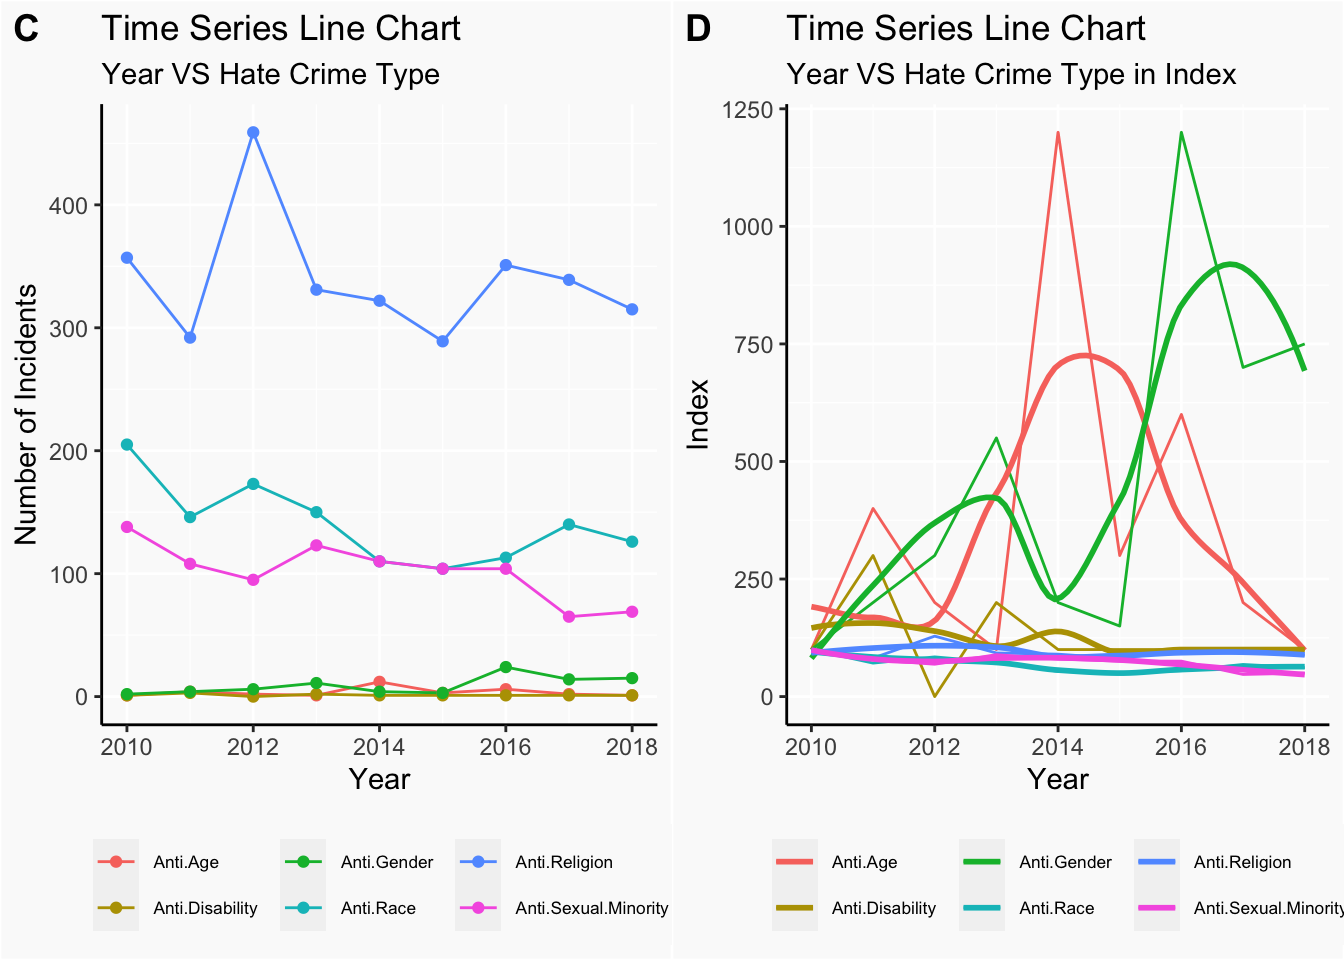
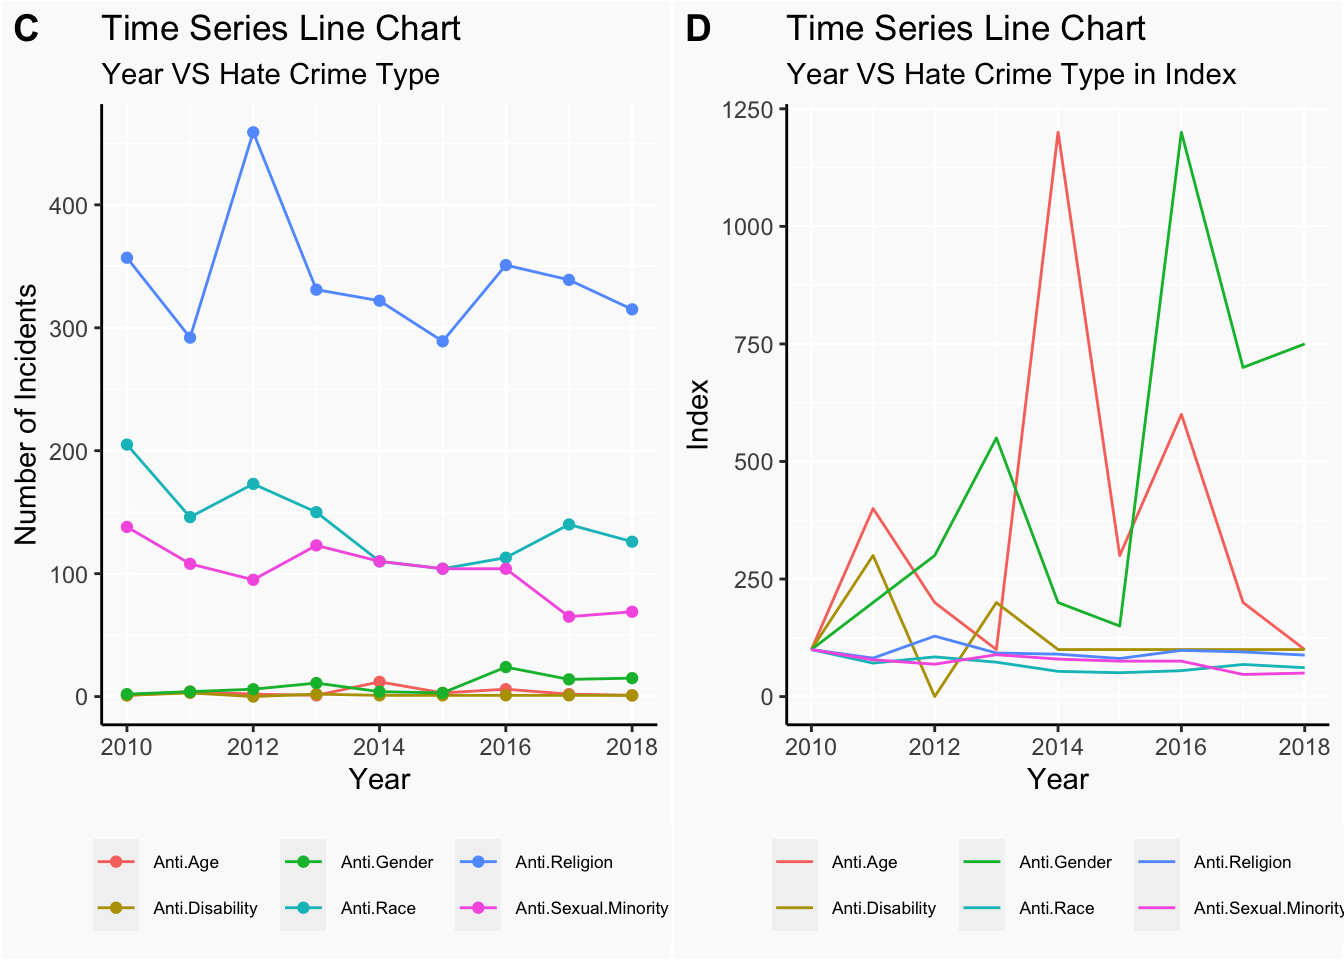
change one line chart in Q3

diff --git a/docs/results.html b/docs/results.html
@@ -24,7 +24,7 @@
 <meta name="author" content="Haichao Yi, Heng Kan, Danyang Han, Zhuoyan Ma" />
 
 
-<meta name="date" content="2020-12-17" />
+<meta name="date" content="2020-12-18" />
 
   <meta name="viewport" content="width=device-width, initial-scale=1" />
   <meta name="apple-mobile-web-app-capable" content="yes" />
@@ -219,7 +219,7 @@ code span.wa { color: #60a0b0; font-weight: bold; font-style: italic; } /* Warni
 <p><img src="finalproj_files/figure-html/unnamed-chunk-20-1.png" width="672" /></p>
 <p>Next, let’s move on to exmaine on the time trend of hate crime types in NY state. Similar preprocessing procedure was done with the target data like the way we transformed in the crime type case.</p>
 <p>From the C plot, we can say that Anti.Religion is the most common hate crime type from 2010 to 2018. It reaches its maximum in 2012 and for other years, it remains approximately at the same level. Anti.Race is the second common type of hate crime in these years and it indicates an overall decreasing trend. Then, it’s the Anti.Sexual.Minority, which also demonstrates a general lowering tendency across years. In 2015 and 2016, its number comes to same level as the number of Anti.Race. For the rest of three type of hate crimes: Anti.Gender, Anti.Disability and Anti.Age, they stay at similar level from 2010 and 2018, roughly around 0 to 10. Anti.Gender reaches its highest point in 2016.</p>
-<p>Interestingly, D plot provides much more information about the time trend. Due to the small cases of certain type of hate crimes, some changes across years are hard to view in the C plot, while D plot ‘exaggerates’ those changes by using the relative change compared with numbers in 2010, especially the Anti.Age and Anti.Gender. From C plot, it’s difficult to view any fluctuations in Anti.Age and Anti.Gender across years. But, in D plot, we are able to view the obvious fluctuations in those two types. Specifically, for Anti.Age, it increases first, then goes down, then goes up to significanly high level, reaching its maximum in 2014, later drops a little and increases to the second highest point in 2016. And for Anti.Gender, it goes up for three years, decreases in next two years and then shows a significantly sharp increase from 2015 to 2016.</p>
+<p>Interestingly, D plot provides much more information about the time trend.In this plot, we didn’t add on the smoothing line using local regression as we didn’t want too much lines in one plot, which makes the plot hard to read. Here we chose to keep the regular line because it shows the relative change in a more obvious way than the smooth line. Due to the small cases of certain type of hate crimes, some changes across years are difficult to view in the C plot, while D plot ‘exaggerates’ those changes by using the relative change compared with numbers in 2010, especially the Anti.Age and Anti.Gender. From C plot, it’s difficult to view any fluctuations in Anti.Age and Anti.Gender across years. But, in D plot, we are able to view the obvious fluctuations in those two types. Specifically, for Anti.Age, it increases first, then goes down, then goes up to significanly high level, reaching its maximum in 2014, later drops a little and increases to the second highest point in 2016. And for Anti.Gender, it goes up for three years, decreases in next two years and then shows a significantly sharp increase from 2015 to 2016.</p>
 <p>Seeing the sharp increase in Anti.Age and Anti.Gender at a particular year, we are curious about which subtype of these two types causes such increase. As Anti.Age doesn’t have any subgroups, we focus on the subgroups of Anti.Gender.</p>
 <p><img src="finalproj_files/figure-html/unnamed-chunk-21-1.png" width="672" /></p>
 <p>In order to see, we draw the time series line chart of years for subgroups of Anti.Gender. From the plot, we discover that the sharp increase in 2016 is largely caused by the sharp increase in Anti.Gender.Indentity.Expression in 2016.</p>

diff --git a/docs/index.html b/docs/index.html
@@ -24,7 +24,7 @@
 <meta name="author" content="Haichao Yi, Heng Kan, Danyang Han, Zhuoyan Ma" />
 
 
-<meta name="date" content="2020-12-17" />
+<meta name="date" content="2020-12-18" />
 
   <meta name="viewport" content="width=device-width, initial-scale=1" />
   <meta name="apple-mobile-web-app-capable" content="yes" />
@@ -169,7 +169,7 @@ code span.wa { color: #60a0b0; font-weight: bold; font-style: italic; } /* Warni
 <div id="header">
 <h1 class="title">Hate Crimes in the State of New York</h1>
 <p class="author"><em>Haichao Yi, Heng Kan, Danyang Han, Zhuoyan Ma</em></p>
-<p class="date"><em>2020-12-17</em></p>
+<p class="date"><em>2020-12-18</em></p>
 </div>
 <div id="introduction" class="section level1">
 <h1><span class="header-section-number">Chapter 1</span> Introduction</h1>

diff --git a/docs/conclusion.html b/docs/conclusion.html
@@ -24,7 +24,7 @@
 <meta name="author" content="Haichao Yi, Heng Kan, Danyang Han, Zhuoyan Ma" />
 
 
-<meta name="date" content="2020-12-17" />
+<meta name="date" content="2020-12-18" />
 
   <meta name="viewport" content="width=device-width, initial-scale=1" />
   <meta name="apple-mobile-web-app-capable" content="yes" />

diff --git a/docs/data-sources.html b/docs/data-sources.html
@@ -24,7 +24,7 @@
 <meta name="author" content="Haichao Yi, Heng Kan, Danyang Han, Zhuoyan Ma" />
 
 
-<meta name="date" content="2020-12-17" />
+<meta name="date" content="2020-12-18" />
 
   <meta name="viewport" content="width=device-width, initial-scale=1" />
   <meta name="apple-mobile-web-app-capable" content="yes" />

diff --git a/docs/data-transformation.html b/docs/data-transformation.html
@@ -24,7 +24,7 @@
 <meta name="author" content="Haichao Yi, Heng Kan, Danyang Han, Zhuoyan Ma" />
 
 
-<meta name="date" content="2020-12-17" />
+<meta name="date" content="2020-12-18" />
 
   <meta name="viewport" content="width=device-width, initial-scale=1" />
   <meta name="apple-mobile-web-app-capable" content="yes" />

diff --git a/docs/interactive-component.html b/docs/interactive-component.html
@@ -24,7 +24,7 @@
 <meta name="author" content="Haichao Yi, Heng Kan, Danyang Han, Zhuoyan Ma" />
 
 
-<meta name="date" content="2020-12-17" />
+<meta name="date" content="2020-12-18" />
 
   <meta name="viewport" content="width=device-width, initial-scale=1" />
   <meta name="apple-mobile-web-app-capable" content="yes" />

diff --git a/docs/missing-values.html b/docs/missing-values.html
@@ -24,7 +24,7 @@
 <meta name="author" content="Haichao Yi, Heng Kan, Danyang Han, Zhuoyan Ma" />
 
 
-<meta name="date" content="2020-12-17" />
+<meta name="date" content="2020-12-18" />
 
   <meta name="viewport" content="width=device-width, initial-scale=1" />
   <meta name="apple-mobile-web-app-capable" content="yes" />
